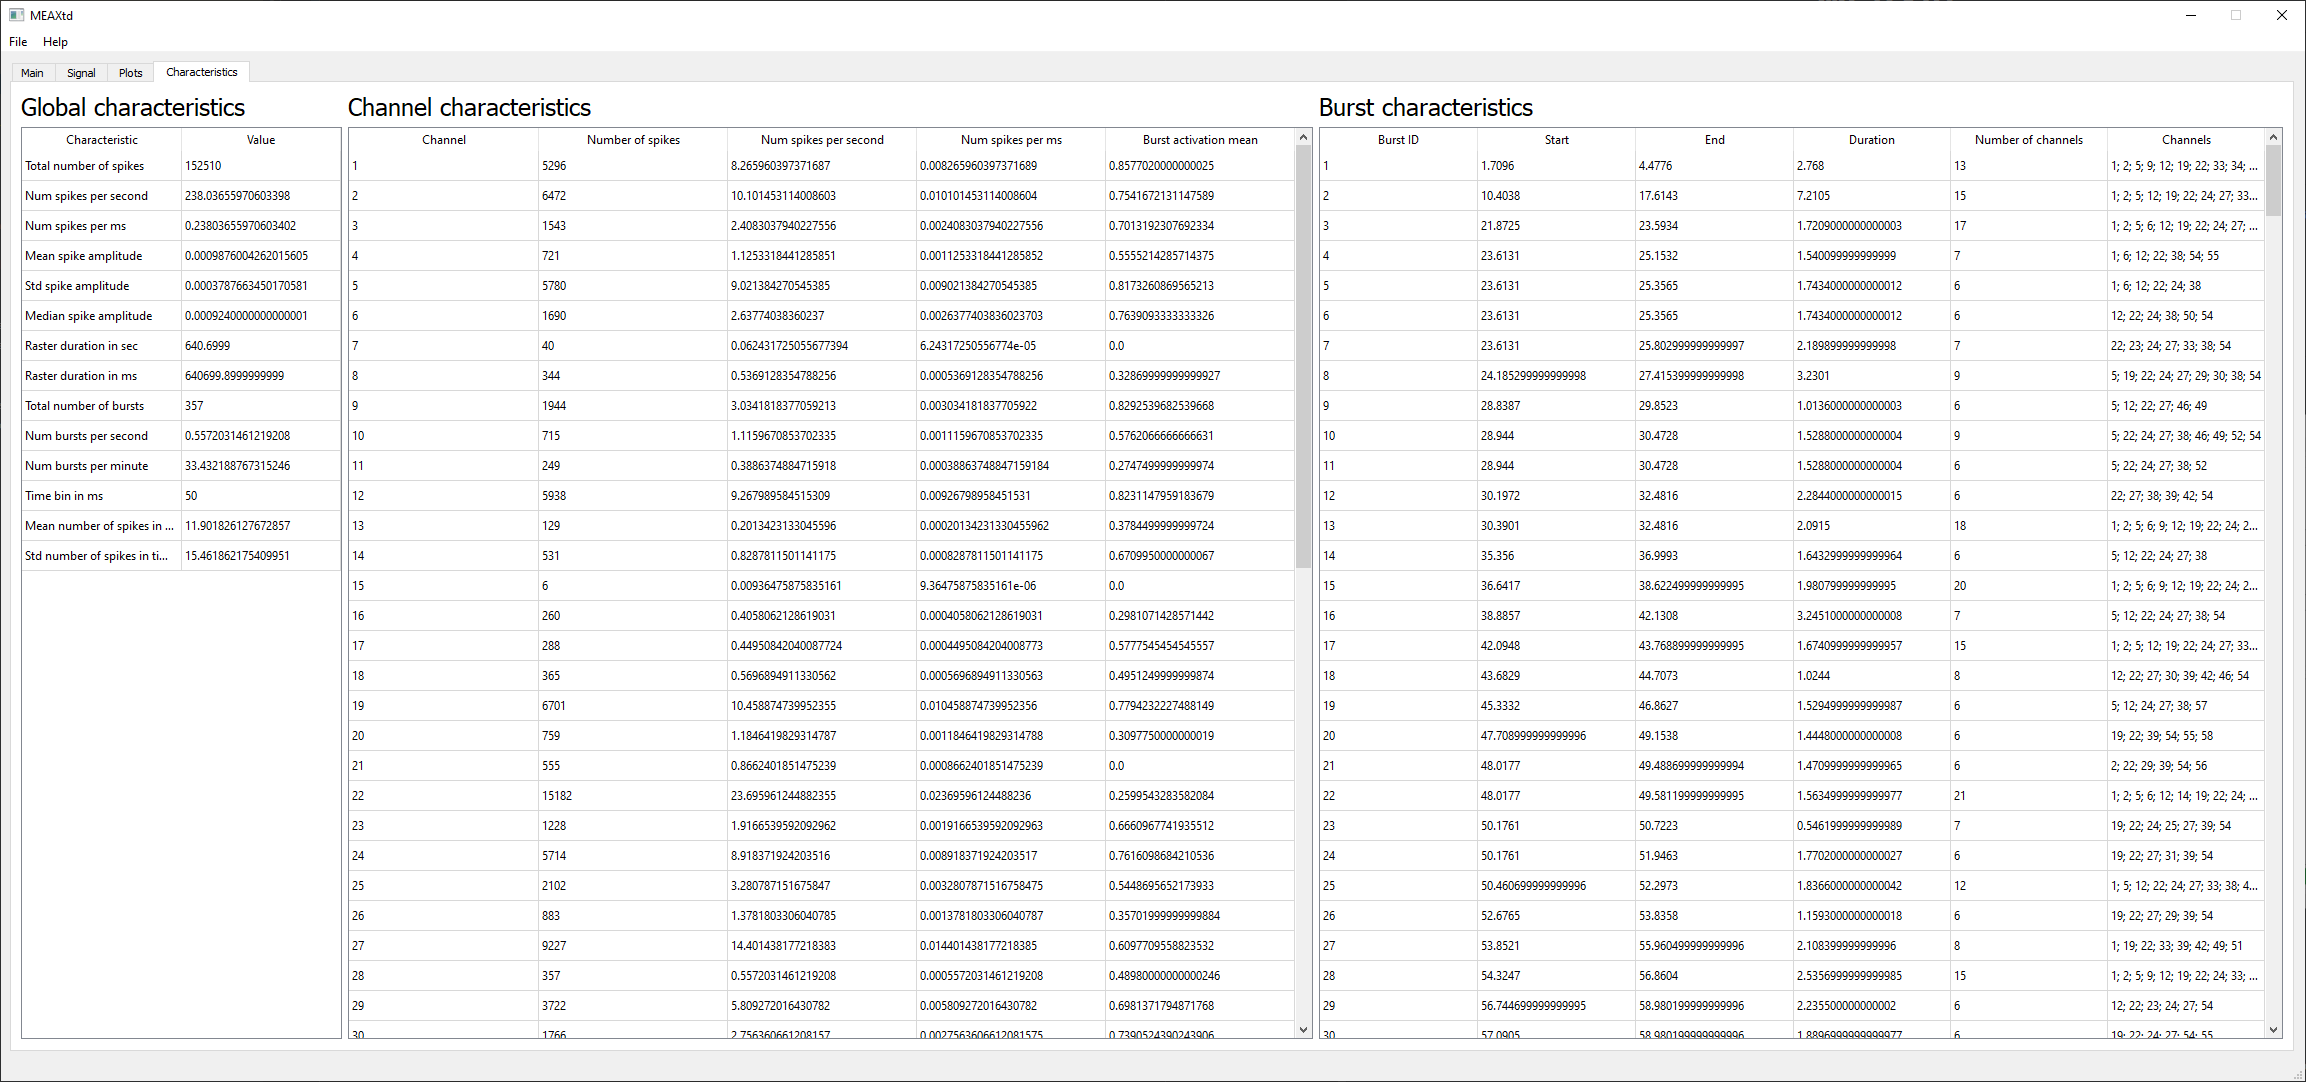
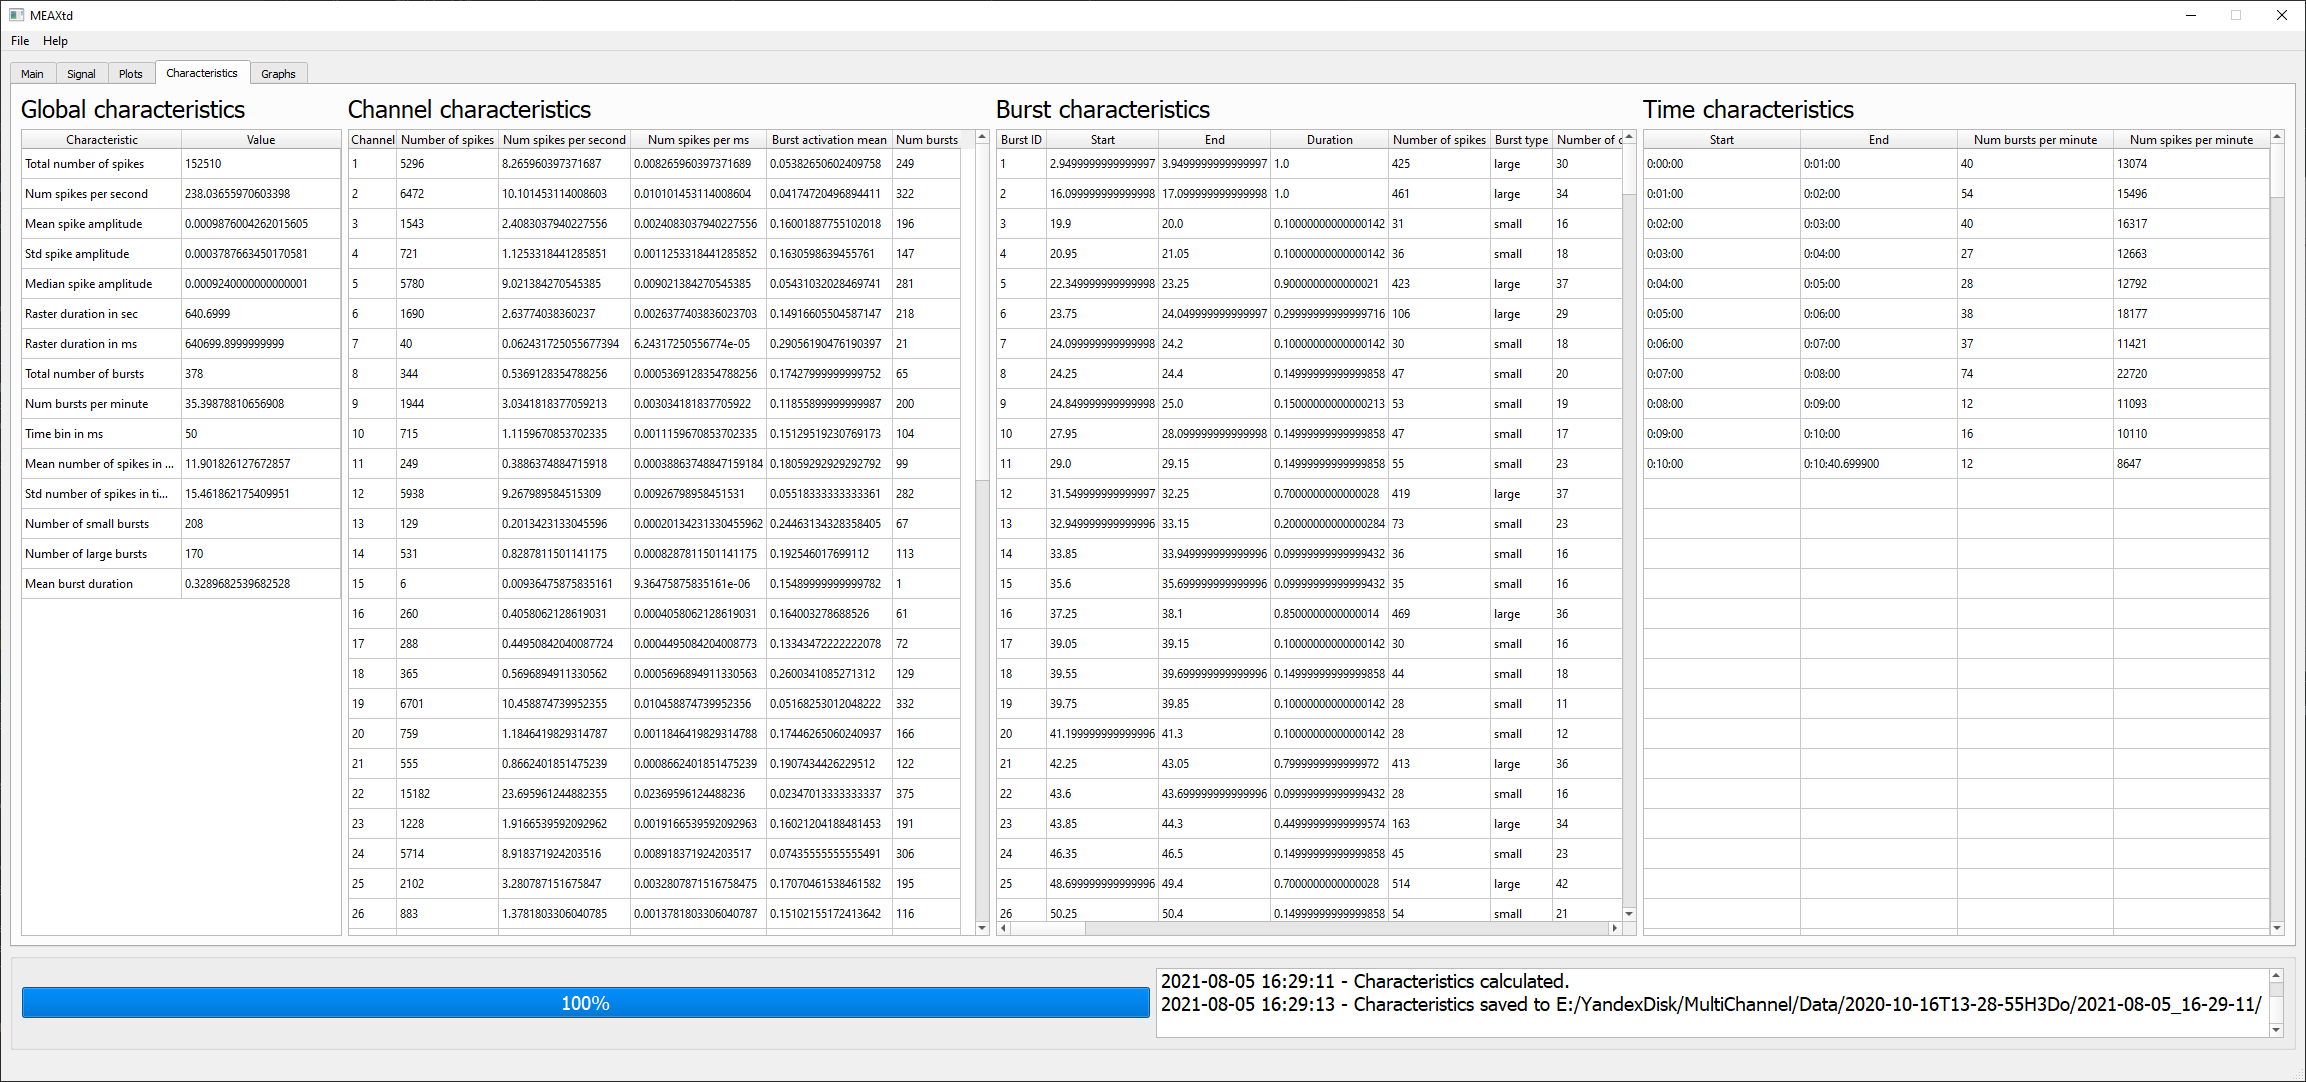
readme update

Changed region(s): [[0.0, 0.0305, 1.0, 0.976], [0.9991, 0.976, 1.0, 1.0]]

diff --git a/README.rst b/README.rst
@@ -50,9 +50,17 @@ https://www.multichannelsystems.com/software/multi-channel-datamanager
 
 Задание метода осуществляется в панели "Spike Parameters". По умолчанию программа использует метод поиска медианы сигнала. Величина коэффициента (coeff) также может быть изменена в поле "Coefficient".
 
-Далее программа на каждом канале осуществляет поиск берстлетов (последовательностей спайков) в окне, размер которого контролируется параметром "Window size" в панели "Burst parameters".
+В программе реализовано 2 метода нахождения бёрстов: с помощью поиска берстлетов или по функции TSR (total spiking rate).
 
+Поиск берстлетов (последовательностей спайков) осуществляется в окне, размер которого контролируется параметром "Window size" в панели "Burst parameters".
 Берст регистрируется, если существует пересечение берстлетов на нескольких каналах (количество каналов регулируется параметром "Num channels").
+
+При использовании TSR для поиска бёрстов определяется минимально допустимая длина бёрста ("Window size") и порог согласно формуле
+::
+
+    mean(TSR) + coeff * std(TSR)
+
+Значение коэффициента "Threshold coefficient" можно изменять. В процессе работы программы в нижнем окне выводятся значения mean(TSR), std(TSR) и результирующий порог.
 
 При изменении параметров необходимо заново запускать анализ (Process).
 
@@ -95,6 +103,27 @@ https://www.multichannelsystems.com/software/multi-channel-datamanager
 
 Все вычисленные характеристики также сохраняются в отдельные xlsx файлы. В папке, где находится оригинальный файл, создается отдельная папка с именем файла, в ней - папка с временем проведения анализа.
 В эту же папку сохраняются все графики с вкладки Plots и файл с конфигурацией параметров анализа.
+
+Экран построения графов (вкладка Graphs)
+----------------------------------------------------------
+
+Вкладка Graphs используется для построения графов распространения сигнала внутри бёрстов.
+
+.. image:: images\\graphs.png
+
+На вкладке слева расположена таблица с характеристиками всех бёрстов, для удобства выбора нужного бёрста.
+
+Граф строится следующим образом:
+
+#. Для выбранного бёрста производится поиск delayed synchronous спайков. Для всех пар сигналов, на которых задетектирован бёрст, рассматриваются интервалы размером Delta (количество интервалов регилируется пареметром Num frames). Для каждого интервала вычисляется отношение количества delayed synchronous спайков к количеству спайков на постсинаптическом нейроне.
+#. Среди всех пар сигналов выбирается топ с максимальными коэффициентами (количество регулируется параметром Cutoff top).
+#. Узлы графа -- сигналы, связи -- задержка по времени для delayed synchronous спайков.
+
+В поле "Navigation" производится ввод номера бёрста, для которого требуется построить граф. После того, как бёрст выбран и параметры заданы, необходимо нажать кнопку "Build Graph".
+
+.. image:: images\\graph_example.png
+
+В поле справа отображается построенный граф, в папку с характеристиками сохраняется 3 типа файлов: картинка в формате png, векторная картинка в формате pdf, файл в формате dot для Graphviz.
 
 Обратная связь
 ---------------------
